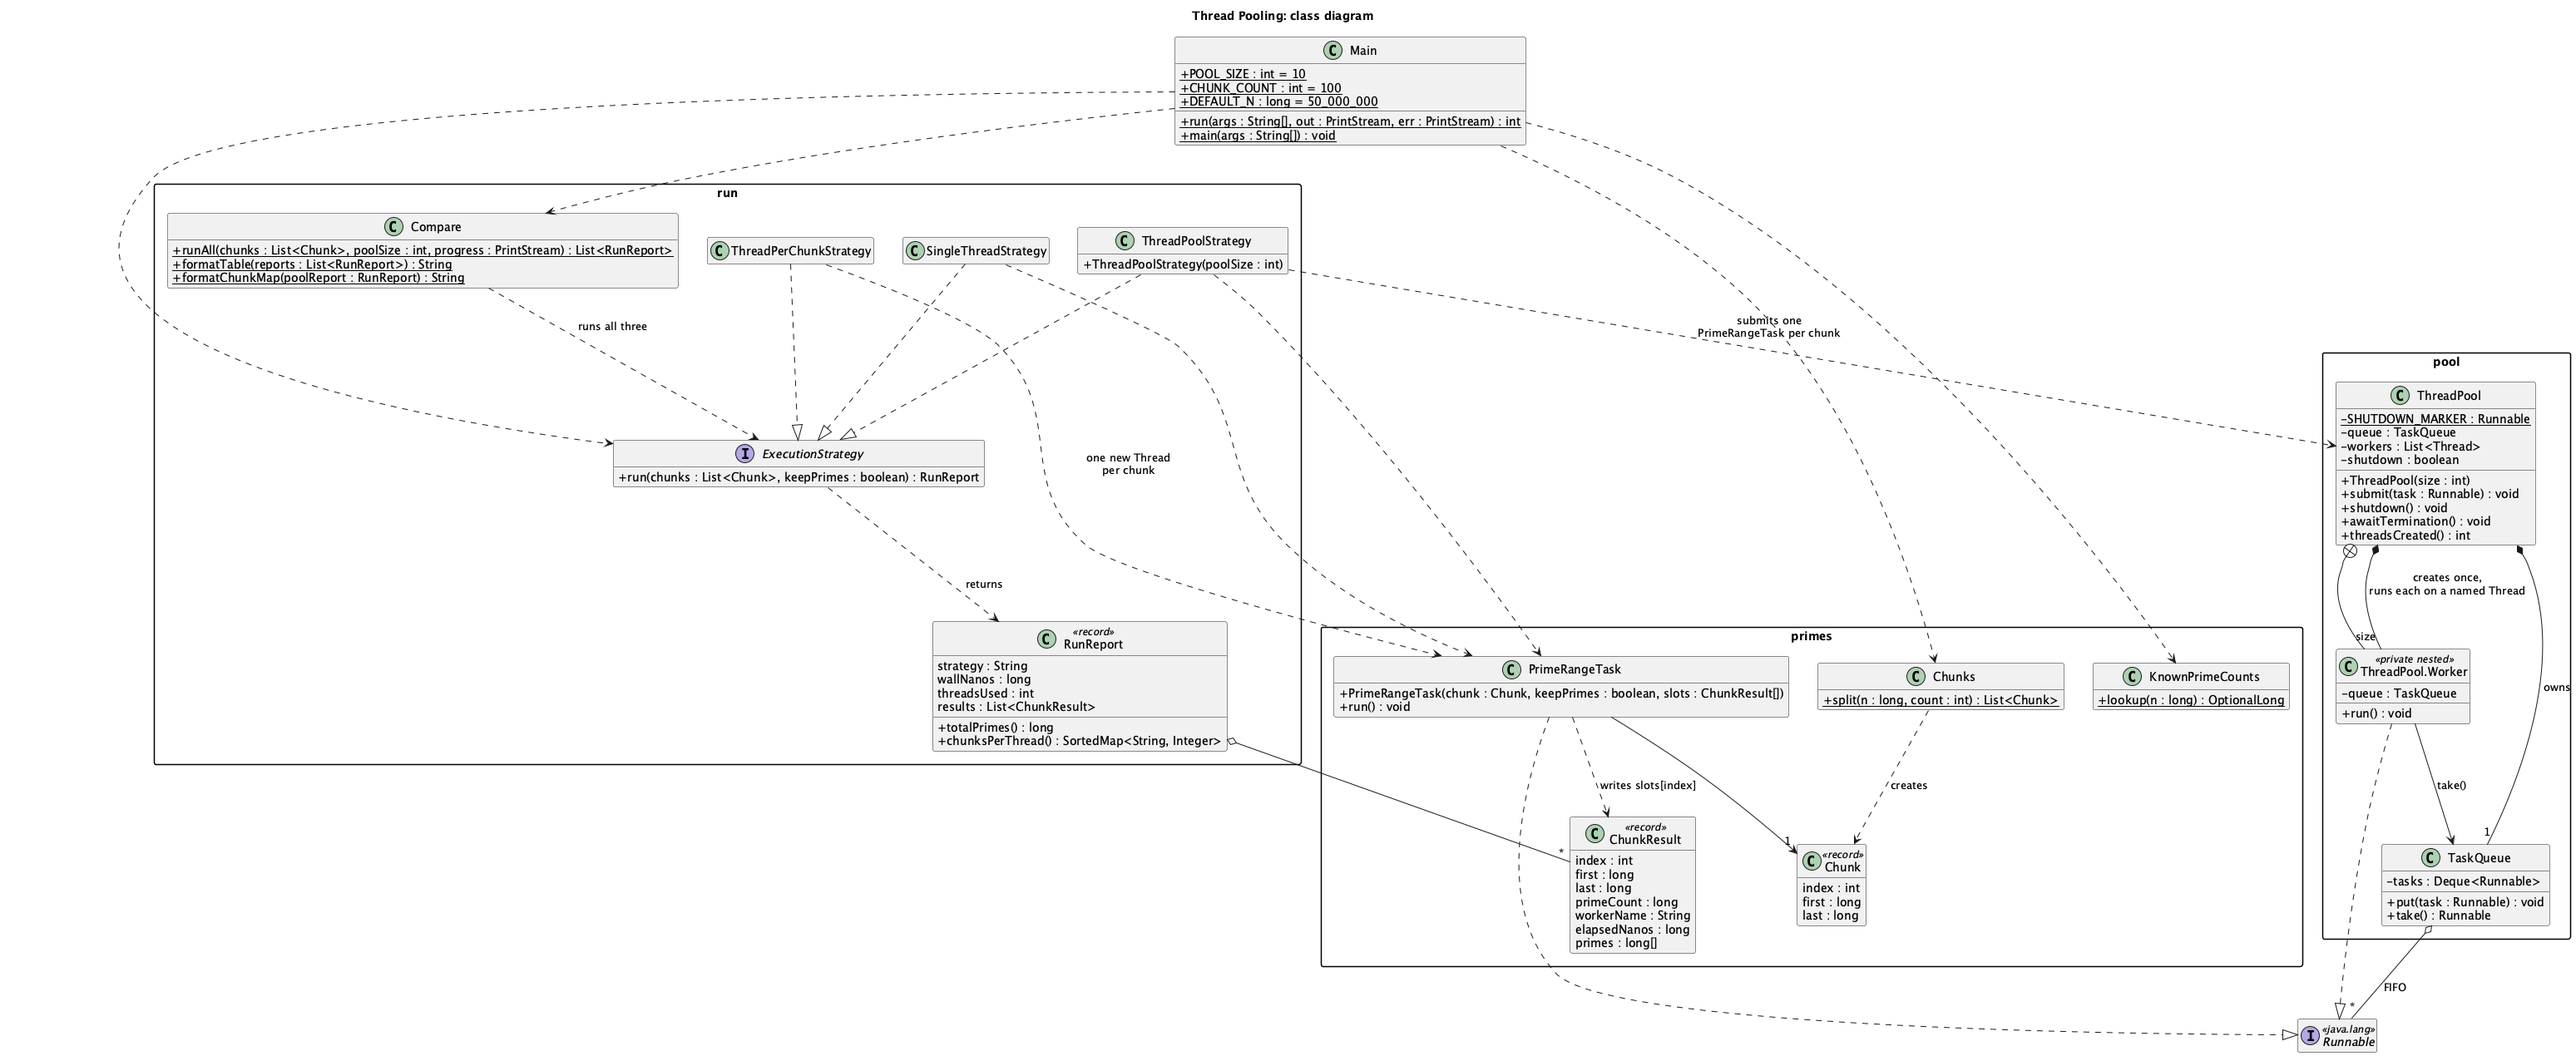
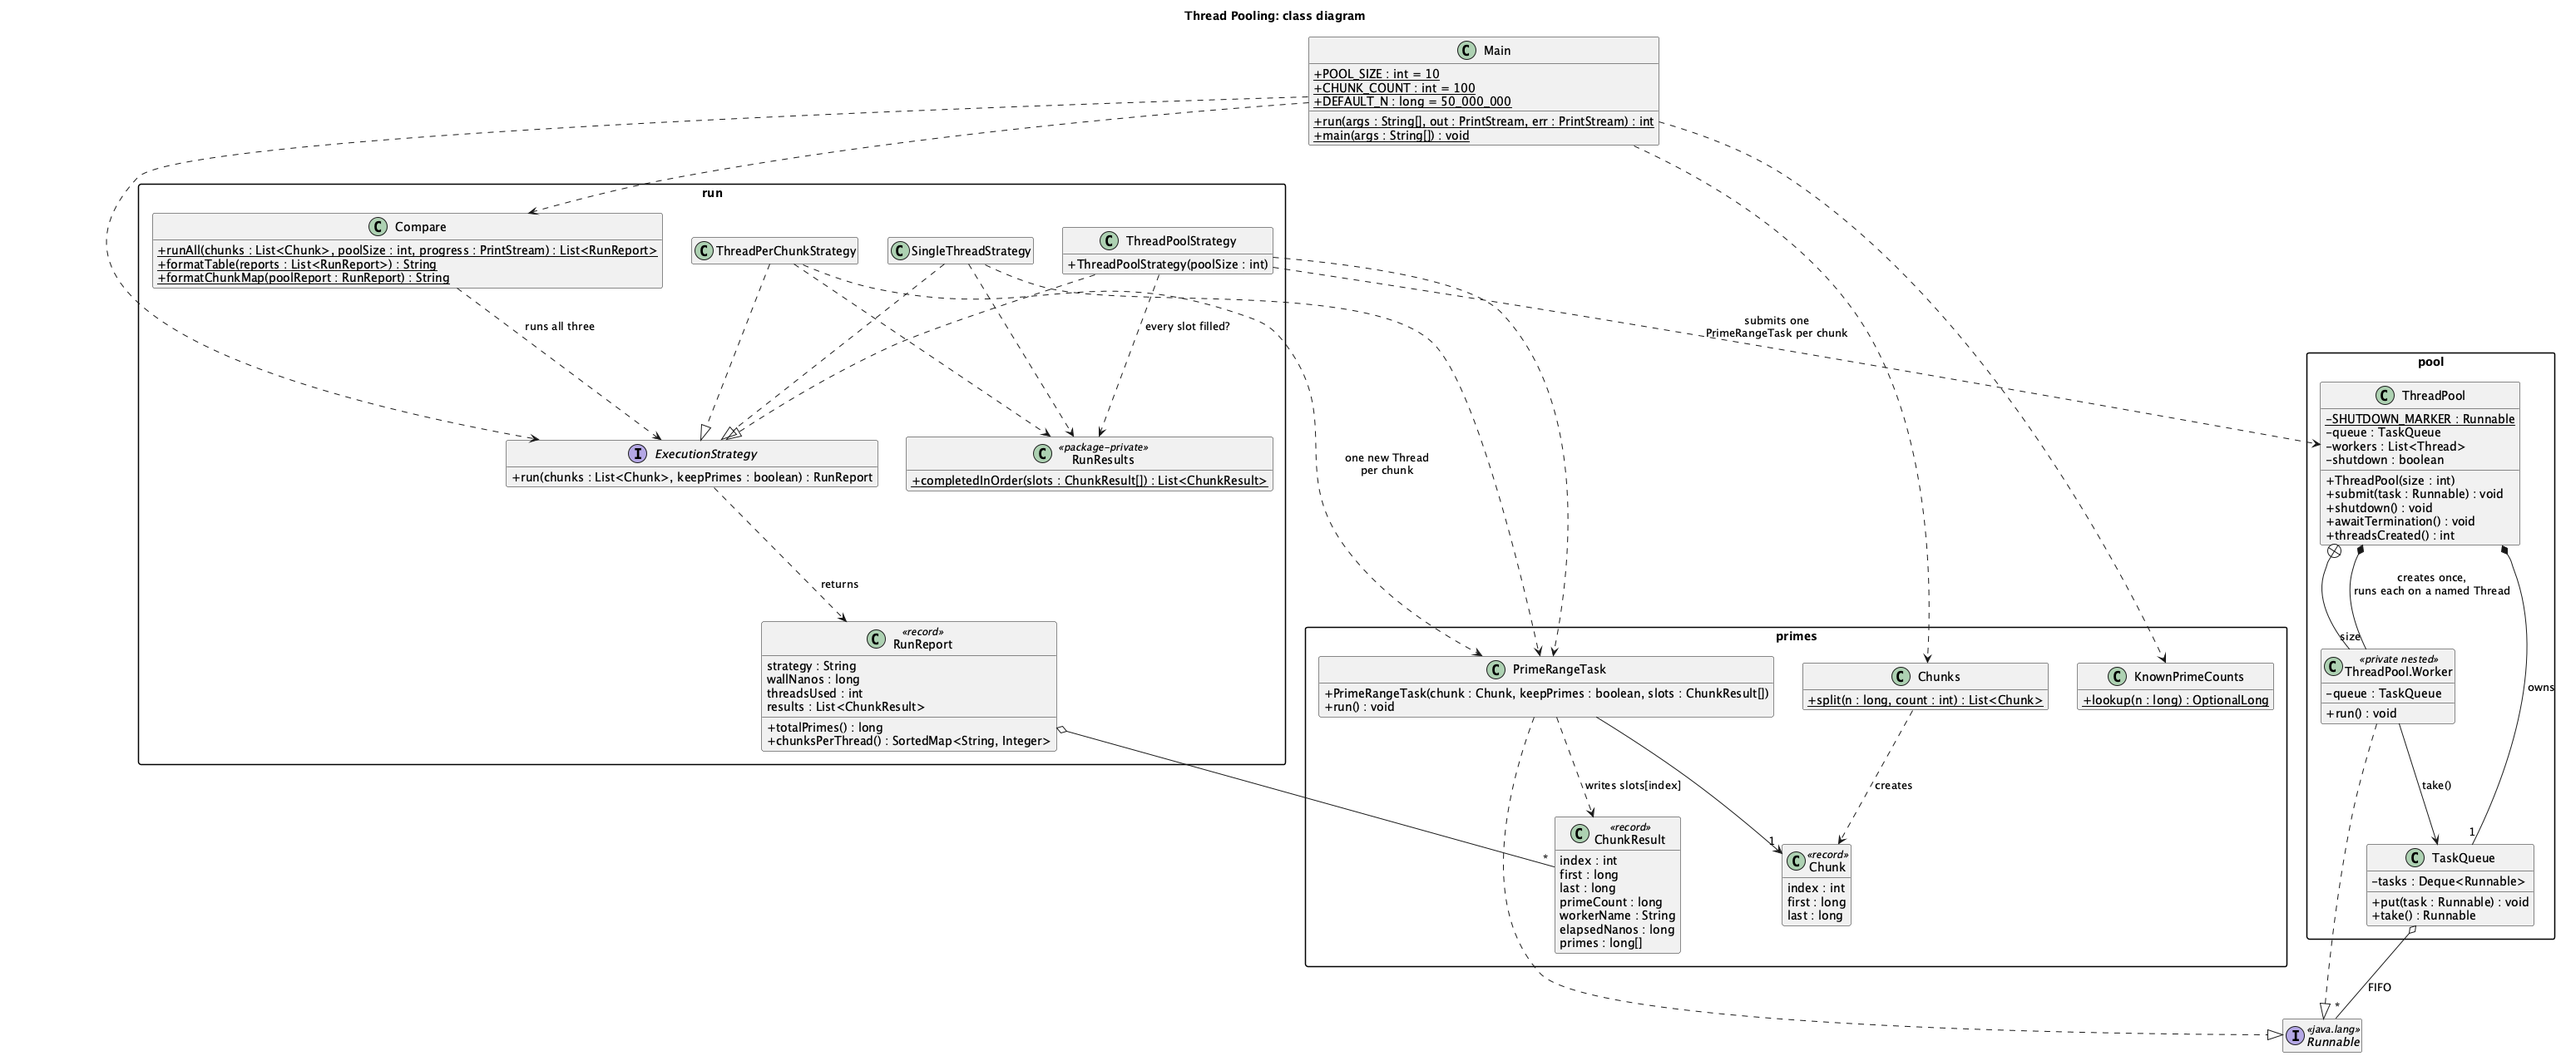
docs: bring the class diagram and test comments up to date (#13)
Add RunResults, the helper all three strategies use to check that every
result slot was filled, to the class diagram and its narrative. Drop the
step-0 wording from the records smoke test and remove uml/.gitkeep, which
is no longer needed.

diff --git a/src/test/java/edu/rit/swen755/threadpool/RecordsSmokeTest.java b/src/test/java/edu/rit/swen755/threadpool/RecordsSmokeTest.java
@@ -13,8 +13,8 @@ import static org.junit.jupiter.api.Assertions.assertSame;
 import static org.junit.jupiter.api.Assertions.assertTrue;
 
 /**
- * Day-one smoke test: the shared records hold the fields they are given. This runs green from
- * step 0, before any slice is implemented, and does not touch the stubbed behaviour.
+ * Checks that the shared records ({@code Chunk}, {@code ChunkResult}, {@code RunReport}) hold the
+ * fields they are given.
  */
 class RecordsSmokeTest {
 

diff --git a/uml/pool/README.md b/uml/pool/README.md
@@ -19,7 +19,7 @@ The program has three packages, and the diagram groups the classes that way.
 
 `primes` is the work. `Chunks.split` cuts [1, N] into 100 equal ranges, and each range becomes a `PrimeRangeTask`, which is just a `Runnable`. The pool has no idea it's counting primes, and we liked keeping it that way: it would run any `Runnable` you gave it. Each task writes its `ChunkResult` into its own slot of a shared array, so no two tasks ever write to the same place and the results need no locking.
 
-`run` is how we measure the tactic. The three `ExecutionStrategy` implementations run the same chunks three ways: all on one thread, on the pool, or on one new thread per chunk. Each returns a `RunReport`, and `Compare` runs all three and prints them side by side. Only `ThreadPoolStrategy` uses the pool. The other two exist so the pool has something to be measured against; a speedup number on its own wouldn't tell you much.
+`run` is how we measure the tactic. The three `ExecutionStrategy` implementations run the same chunks three ways: all on one thread, on the pool, or on one new thread per chunk. Each returns a `RunReport`, and `Compare` runs all three and prints them side by side. Before building its report, every strategy passes its result slots to `RunResults`, which throws if any slot is still empty, so a task that never ran shows up as an error instead of a wrong count. Only `ThreadPoolStrategy` uses the pool. The other two exist so the pool has something to be measured against; a speedup number on its own wouldn't tell you much.
 
 `Main` reads the command line and picks a strategy, or `Compare`. The pool size (10) and chunk count (100) are constants in `Main` rather than options, because the assignment fixes the pool at 10 threads.
 
